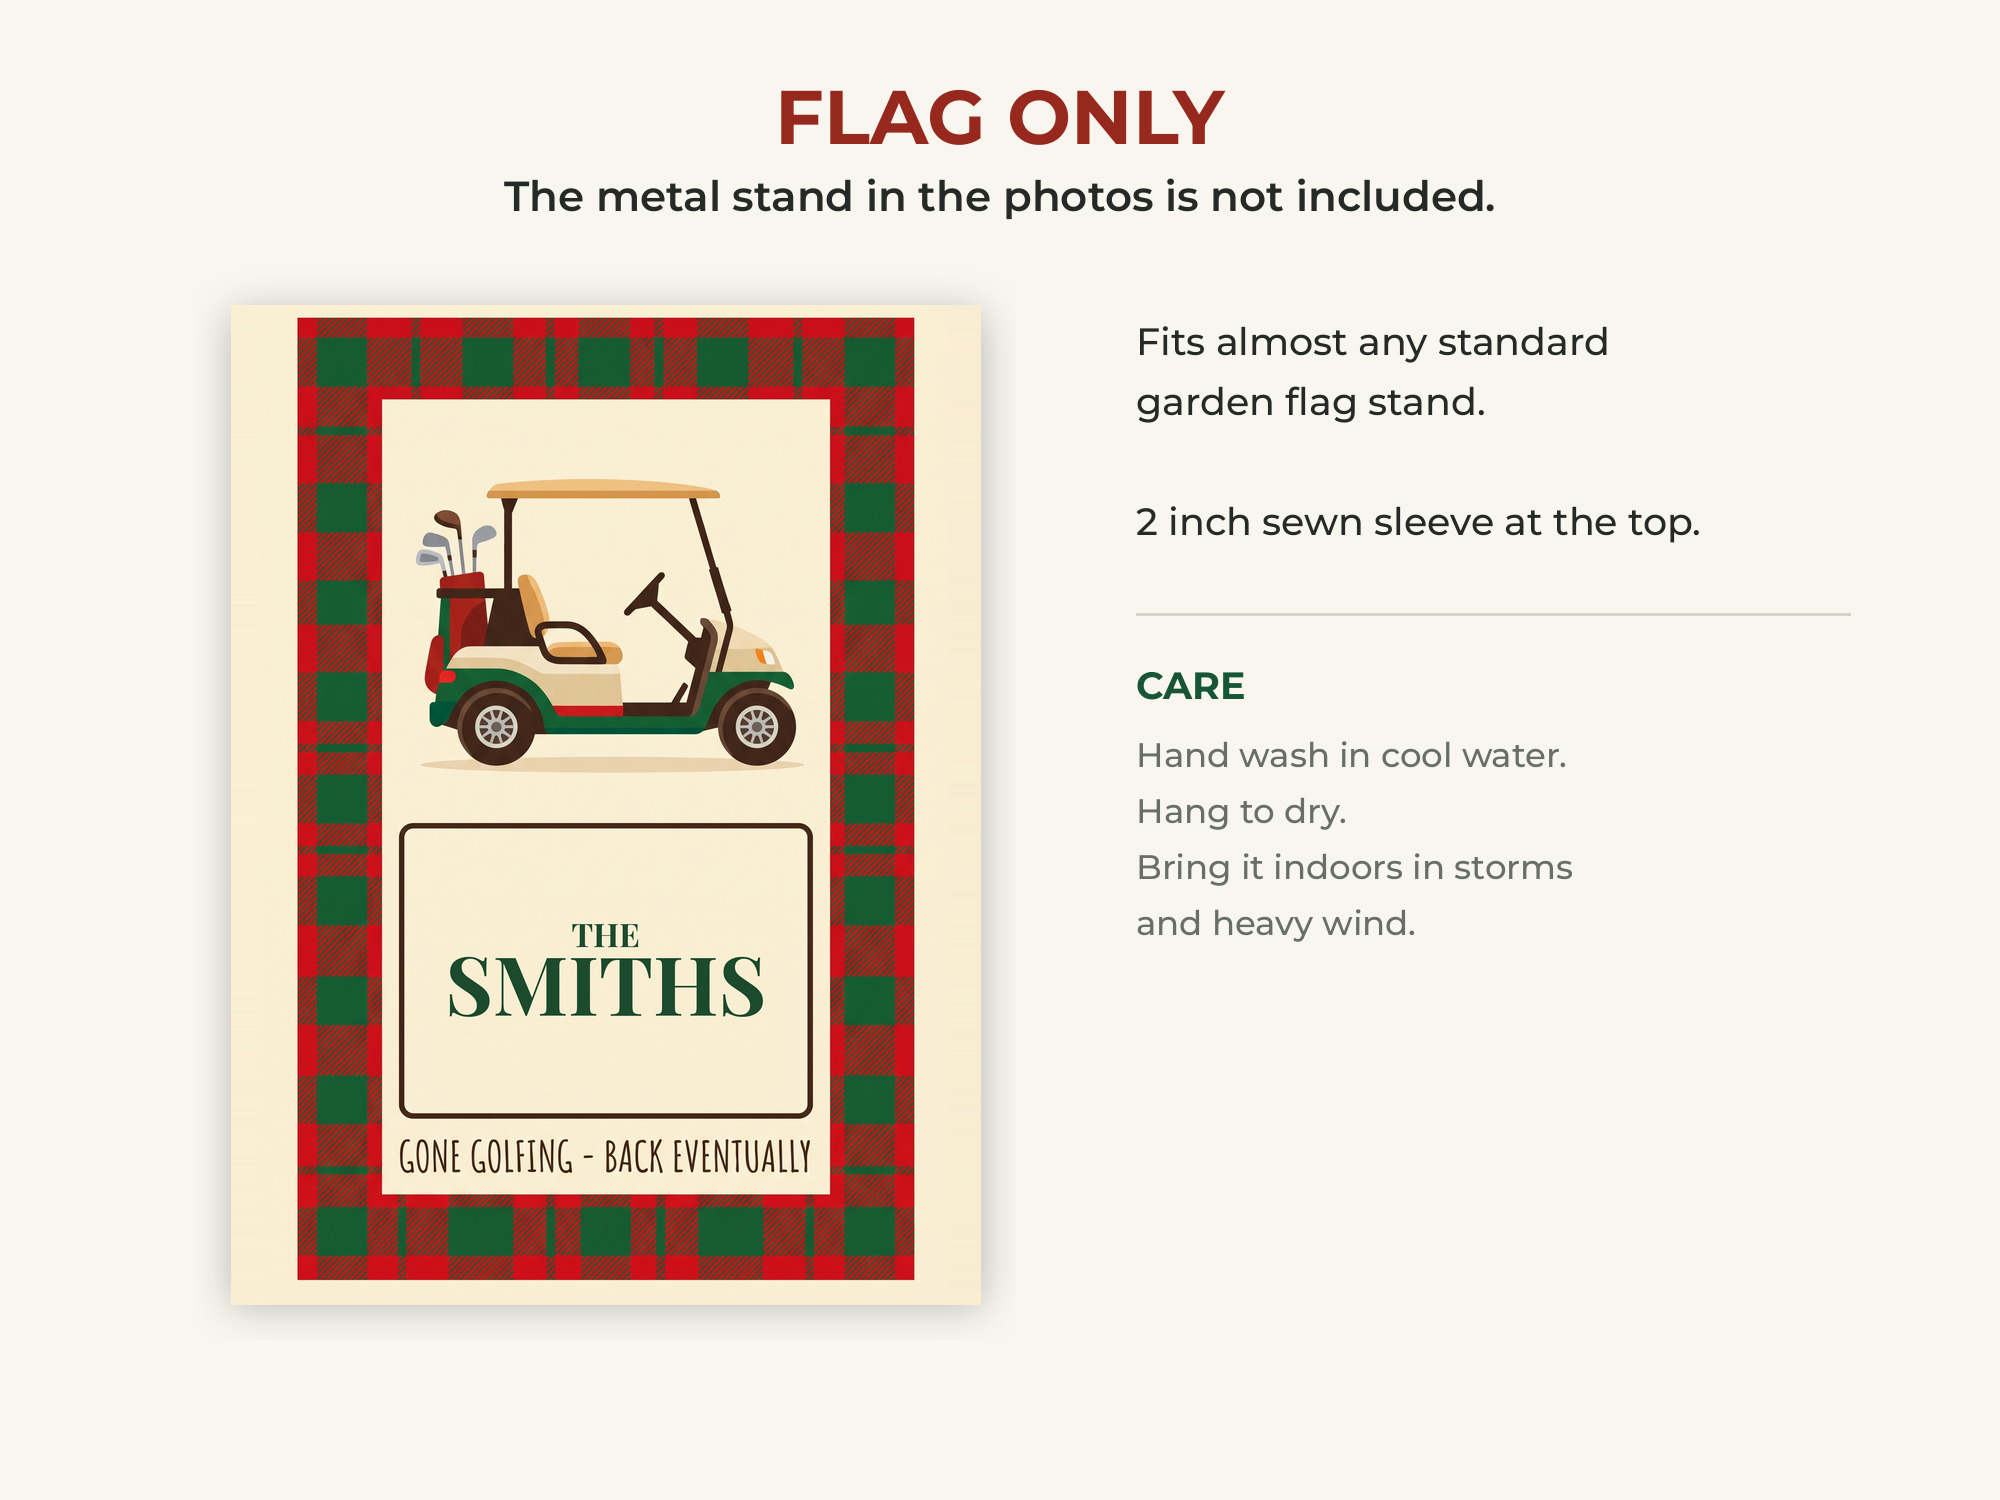
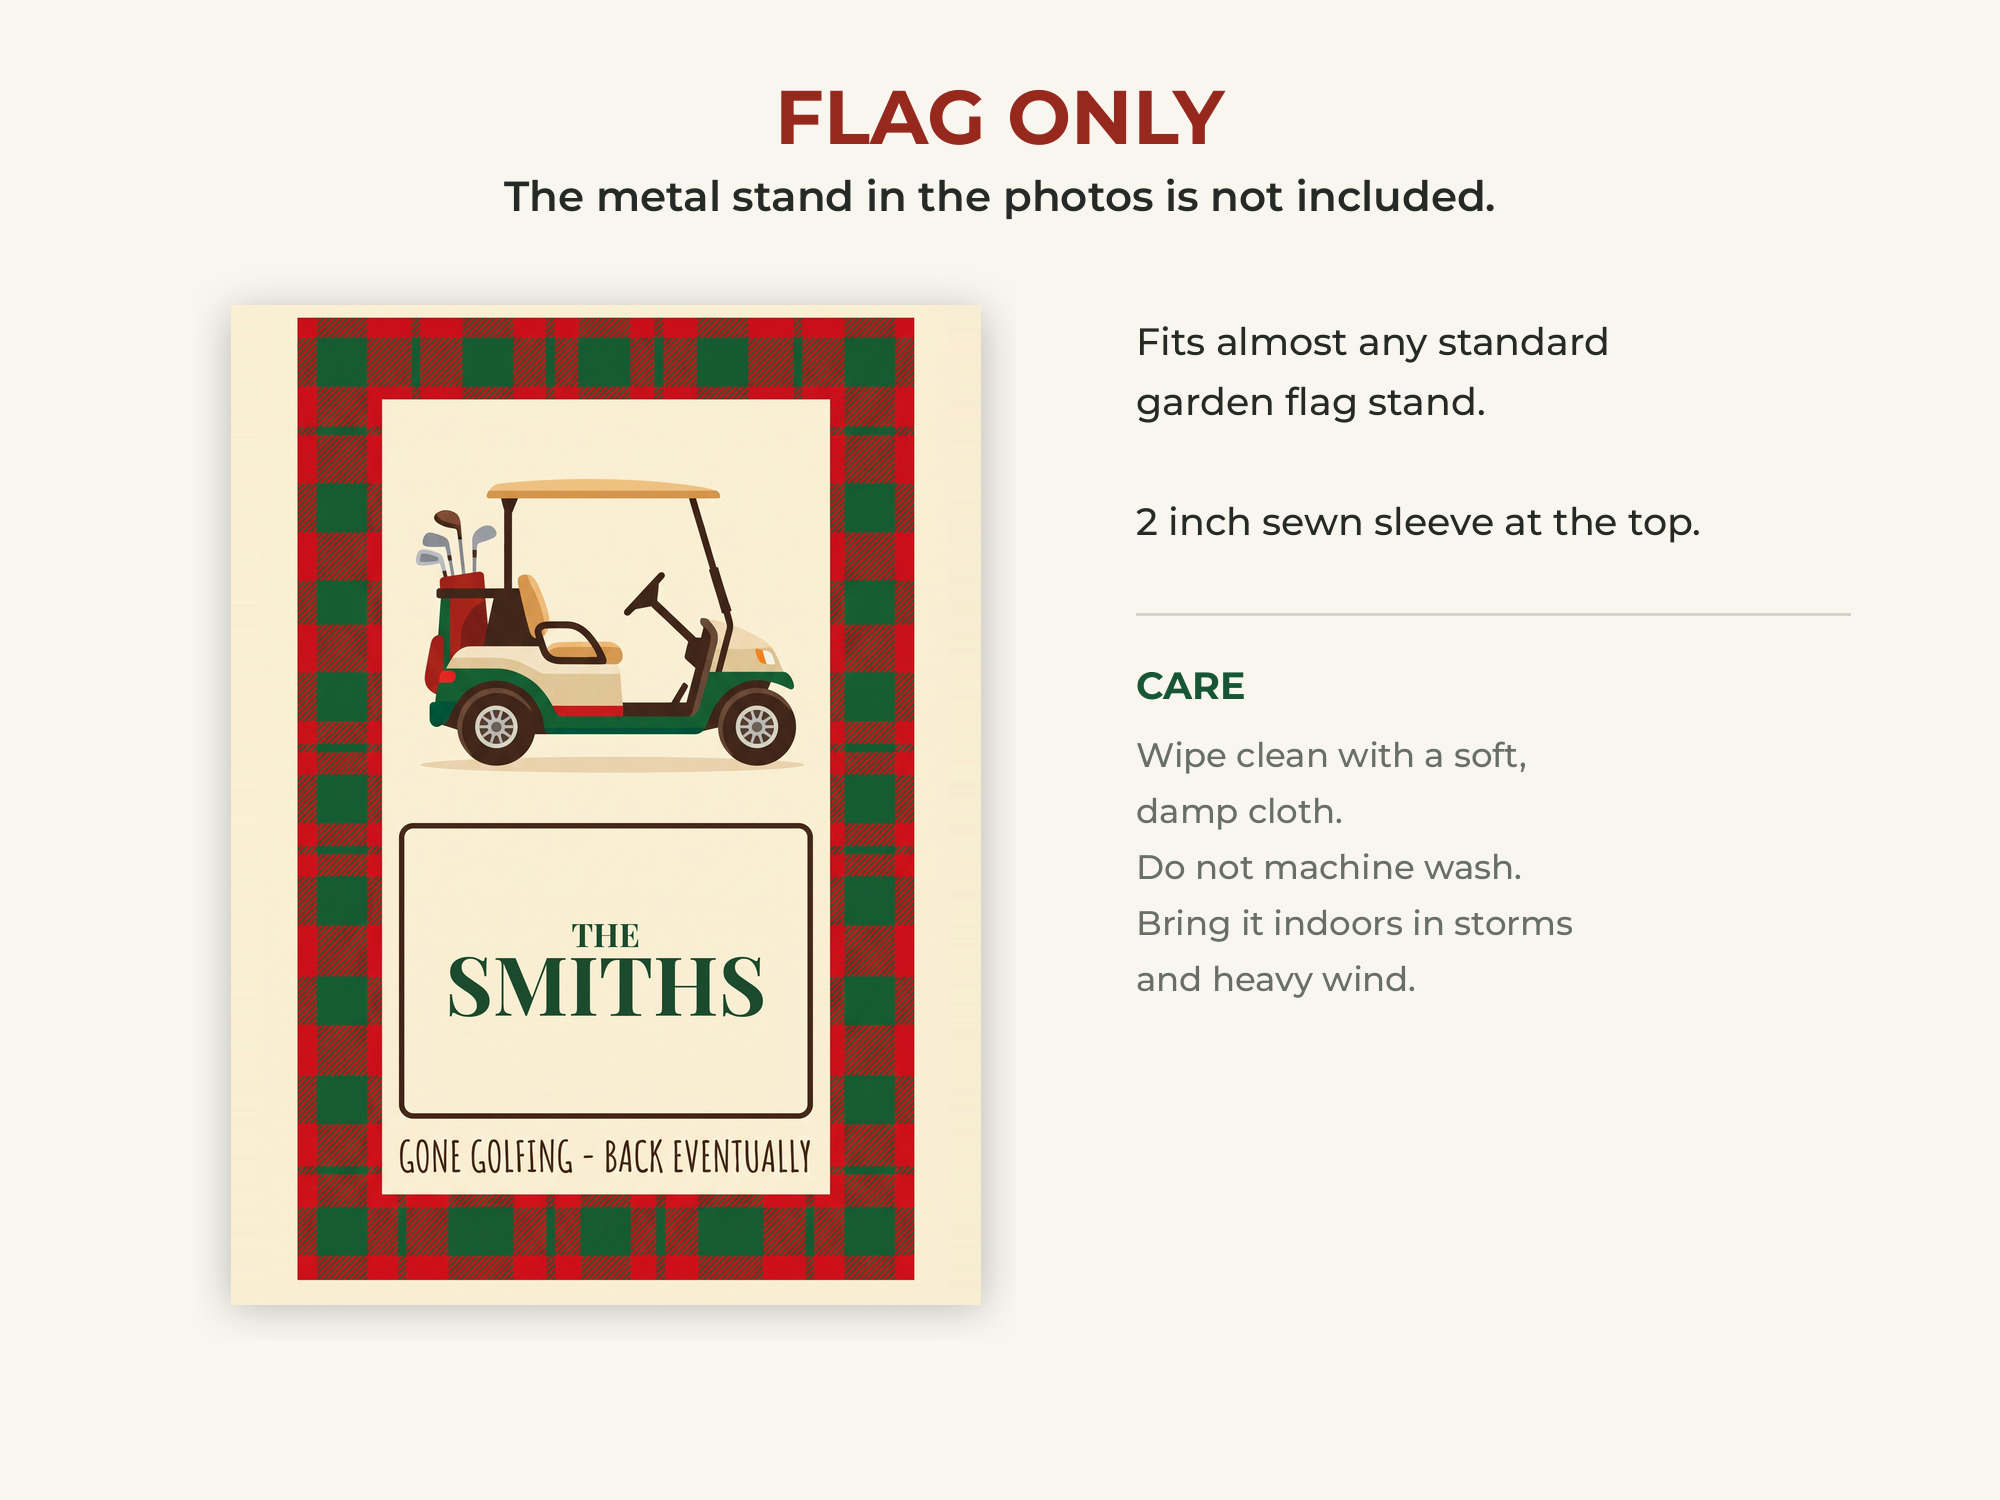
garden_flag: 商品仕様が判明。お手入れの記述の誤りを訂正し、素材名などを追記
Printifyの商品ページで仕様が全部出た。

判明したこと
  生地      100% poly poplin-canvas（細い経糸＋太い緯糸の軽量生地）
  裏地      内側に黒い裏地。裏写りを防ぐ
  両面      同じ絵柄を長辺で折り返す。縦長デザインは裏も正しく読める
  付属なし  ポール・フック・留め具
  製造元    Local USA providers に分類、★9.6
  寸法      12x18（幅12.00/長さ18.00）、24.5x32（幅24.50/長さ32.00）

⚠ お手入れの記述が誤っていた
  当初「冷水で手洗い、吊るして乾かす」と推測で書いていたが、
  商品ページの Care instructions は「Clean by wiping with a soft, damp cloth」。
  洗濯ではなく拭き取りだった。説明文と出品画像7枚目の両方を訂正した。

説明文への追記
  100% poly poplin-canvas を明記
  with a black inner lining ... no show-through（裏写りしない）
  Printed in the USA（生地の原産国は不明なので Made in USA は使わない）

出品画像を作り直した
  7_flag_only  お手入れを「拭き取り・洗濯機不可」に訂正
  4_closeup    帯の文言を SOFT, FADE-RESISTANT FABRIC → 100% POLY POPLIN-CANVAS

Claude-Session: https://claude.ai/code/session_017qrD34xpyvn533LRq15xnw

Changed region(s): [[0.558, 0.4907, 0.775, 0.6747]]

diff --git a/garden_flag/tools/mockup/listing_img.py b/garden_flag/tools/mockup/listing_img.py
@@ -119,7 +119,8 @@ def img_notice(tag, out):
         text(d,(x,y),line,f3,INK); y+=60
     y+=56; rule(d,y,x,W-150); y+=48
     text(d,(x,y),"CARE",F(38,"Bold"),ACC); y+=72
-    for line in ["Hand wash in cool water.","Hang to dry.","Bring it indoors in storms","and heavy wind."]:
+    for line in ["Wipe clean with a soft,","damp cloth.","Do not machine wash.",
+                 "Bring it indoors in storms","and heavy wind."]:
         text(d,(x,y),line,f4,SUB); y+=56
     base.save(out,quality=92,subsampling=0)
 

diff --git a/garden_flag/tools/mockup/build_listing.py b/garden_flag/tools/mockup/build_listing.py
@@ -8,7 +8,7 @@ CODES=["R01","R02","R05","R09","R11"]
 NAME={"R01":"still-working-on-it","R02":"19th-hole","R05":"mulligans",
       "R09":"gone-golfing","R11":"members-only"}
 SUB={"R01":"yard","R02":"door","R05":"yard","R09":"door","R11":"door"}   # 2枚目の風景
-CLOSE_LABEL="SOFT, FADE-RESISTANT FABRIC"
+CLOSE_LABEL="100% POLY POPLIN-CANVAS"
 OUT="listing"
 os.makedirs(OUT,exist_ok=True)
 for c in CODES:

diff --git a/garden_flag/docs/21_出品文言.md b/garden_flag/docs/21_出品文言.md
@@ -217,13 +217,14 @@ send you a free preview.
 WHAT YOU GET
 --------------------------------------
 - Garden flag 12 x 18 in (30 x 46 cm), or house flag 24.5 x 32 in (62 x 81 cm)
-- Printed on BOTH sides. The design reads correctly from the front and
-  from the back - not mirrored
+- 100% poly poplin-canvas. Lightweight but hard-wearing
+- Printed on BOTH sides, with a black inner lining. The design reads correctly
+  from the front and from the back - not mirrored, and no show-through
 - Dye-sublimation printing with water-based inks. The colours are dyed INTO
   the fabric, not layered on top, so they cannot crack, peel or flake off
-- Soft fabric with a sewn sleeve at the top for a standard flag stand
-- Made to order and shipped in about 2 business days, then 2-5 business days
-  in transit inside the US
+- Sewn sleeve at the top that fits a standard flag stand
+- Printed in the USA. Made to order and shipped in about 2 business days,
+  then 2-5 business days in transit inside the US
 
 PLEASE NOTE: the metal stand in the photos is NOT included.
 This listing is for the flag only. Almost any standard garden flag stand fits.
@@ -232,7 +233,7 @@ Alaska, Hawaii and Puerto Rico can take 7-12 extra business days.
 --------------------------------------
 CARE
 --------------------------------------
-Hand wash in cool water and hang to dry.
+Wipe clean with a soft, damp cloth. Do not machine wash.
 Bring it indoors in storms and heavy wind to keep the colors sharp.
 
 --------------------------------------
@@ -259,18 +260,20 @@ Buying two? Shipping on the second flag is only $1.99.
 >
 > **内容**
 > - ガーデンフラッグ 12×18インチ（30×46cm）、またはハウスフラッグ 24.5×32インチ（62×81cm）
-> - **両面印刷。** 表からも裏からも文字が正しく読めます（鏡文字になりません）
+> - **100%ポリ・ポプリンキャンバス。** 軽いが丈夫
+> - **両面印刷、内側に黒い裏地入り。** 表からも裏からも文字が正しく読めます
+>   （鏡文字にならず、裏写りもしません）
 > - **水性インクの昇華転写プリント。色が生地に染み込むので、表面に乗せる印刷と違い、
 >   割れたり剥がれたり欠けたりしません**
-> - 柔らかい生地、上部に袖（縫製済み）。一般的なスタンドに差し込めます
-> - 受注生産。**約2営業日で発送**、米国内は**さらに2〜5営業日**で到着
+> - 上部に袖（縫製済み）。一般的なスタンドに差し込めます
+> - **米国内で印刷。** 受注生産で**約2営業日で発送**、米国内は**さらに2〜5営業日**で到着
 >
 > **ご注意：写真の金属スタンドは付属しません。** 旗のみの商品です。
 > 一般的なガーデンフラッグ用スタンドならほぼ何でも合います。
 > アラスカ・ハワイ・プエルトリコは**さらに7〜12営業日**かかることがあります。
 >
 > **お手入れ**
-> 冷水で手洗い、吊るして乾かしてください。
+> **柔らかい布を湿らせて拭いてください。洗濯機は使わないでください。**
 > 嵐や強風のときは室内に取り込むと色が長持ちします。
 >
 > **こんな贈り物に**
@@ -290,6 +293,8 @@ Buying two? Shipping on the second flag is only $1.99.
 | **any golfer who already owns every club ever made** | 「クラブはもう全部持っているゴルファー」。**贈り物選びに詰まった人の状況そのもの**を言い当てる。ここで笑って買う |
 | **PLEASE NOTE ... NOT included** | 大文字で強調。**スタンド付属と誤解された低評価レビューは、この商品で最も多い事故。** 説明文と画像7枚目の両方で潰す |
 | **dyed INTO the fabric, not layered on top** | 「生地に染み込む、表面に乗せるのではなく」。**INTO を大文字にして on top と対比**させている。昇華転写の仕組みをそのまま売り文句にしたもの |
+| **with a black inner lining ... no show-through** | 「内側に黒い裏地。裏写りしない」。**両面印刷の安物は裏の絵が透ける。** 黒い裏地はそれを防ぐ部品で、製造仕様に明記されている。買い手が心配する点を先に潰す |
+| **Printed in the USA** | 「米国内で印刷」。Printifyが Pic The Gift を **Local USA providers** に分類している。`Made in USA` ではなく `Printed in the USA` にしたのは、**生地の原産国が不明**なため。印刷工程が米国であることだけを言っている |
 | **cannot crack, peel or flake off** | 「割れない・剥がれない・欠けない」。動詞を3つ並べるのは、**安い旗が実際に壊れる3通りの壊れ方を全部名指しで潰す**ため。1つだけだと「他の壊れ方はするのか」と読まれる |
 
 ---

diff --git a/garden_flag/docs/10_採算計算.md b/garden_flag/docs/10_採算計算.md
@@ -315,10 +315,16 @@ Etsy手数料 = 買い手総額 × 9.5% + $0.45
 
 ※ アラスカ・ハワイ・プエルトリコ・米国の未編入地域は**さらに7〜12営業日**。
 
-## 製造仕様（Pic The Gift）
+## 製造仕様（Pic The Gift ★9.6 / Local USA providers）
 
 | 項目 | 内容 |
 |---|---|
+| **生地** | **100% poly poplin-canvas**（細い経糸＋太い緯糸の軽量生地） |
+| **裏地** | 内側に**黒い裏地**。裏写りを防ぐ |
+| **両面印刷** | 同じ絵柄を両面に。**長辺で折り返す**ので縦長デザインは裏も正しく読める |
+| **お手入れ** | **柔らかい湿った布で拭く。**（洗濯ではない） |
+| **付属しないもの** | ポール・フック・留め具 |
+| 寸法 | 12"×18"（幅12.00 / 長さ18.00）、24.5"×32"（幅24.50 / 長さ32.00） |
 | 印刷方式 | **水性インクの昇華転写**（Industrial Digital Printers / water-based Dye Sublimation inks） |
 | プレス | ロータリー式とフラット式の熱プレス |
 | 転写紙 | 使用後にリサイクル |
@@ -326,5 +332,11 @@ Etsy手数料 = 買い手総額 × 9.5% + $0.45
 | 梱包 | クリア袋 → ポリ袋。大口はクリア袋 → 箱 |
 | 製造日数 | 1.9日 |
 
-**生地の素材名は画面に出ていない。** 昇華転写はポリエステルにしか定着しないので
-実質ポリエステルだが、確認できていないので出品文言には書かない（`docs/21` 第8節）。
+### 出品文言への反映（`docs/21`）
+
+| 分かったこと | 説明文にどう書いたか |
+|---|---|
+| 100% poly poplin-canvas | そのまま明記 |
+| 黒い裏地 | `with a black inner lining ... no show-through`（裏写りしない） |
+| Local USA providers | **`Printed in the USA`**。生地の原産国は不明なので `Made in USA` は使わない |
+| 拭き取り清掃 | **お手入れの記述を訂正**（当初は「冷水で手洗い」と推測で書いていた） |
